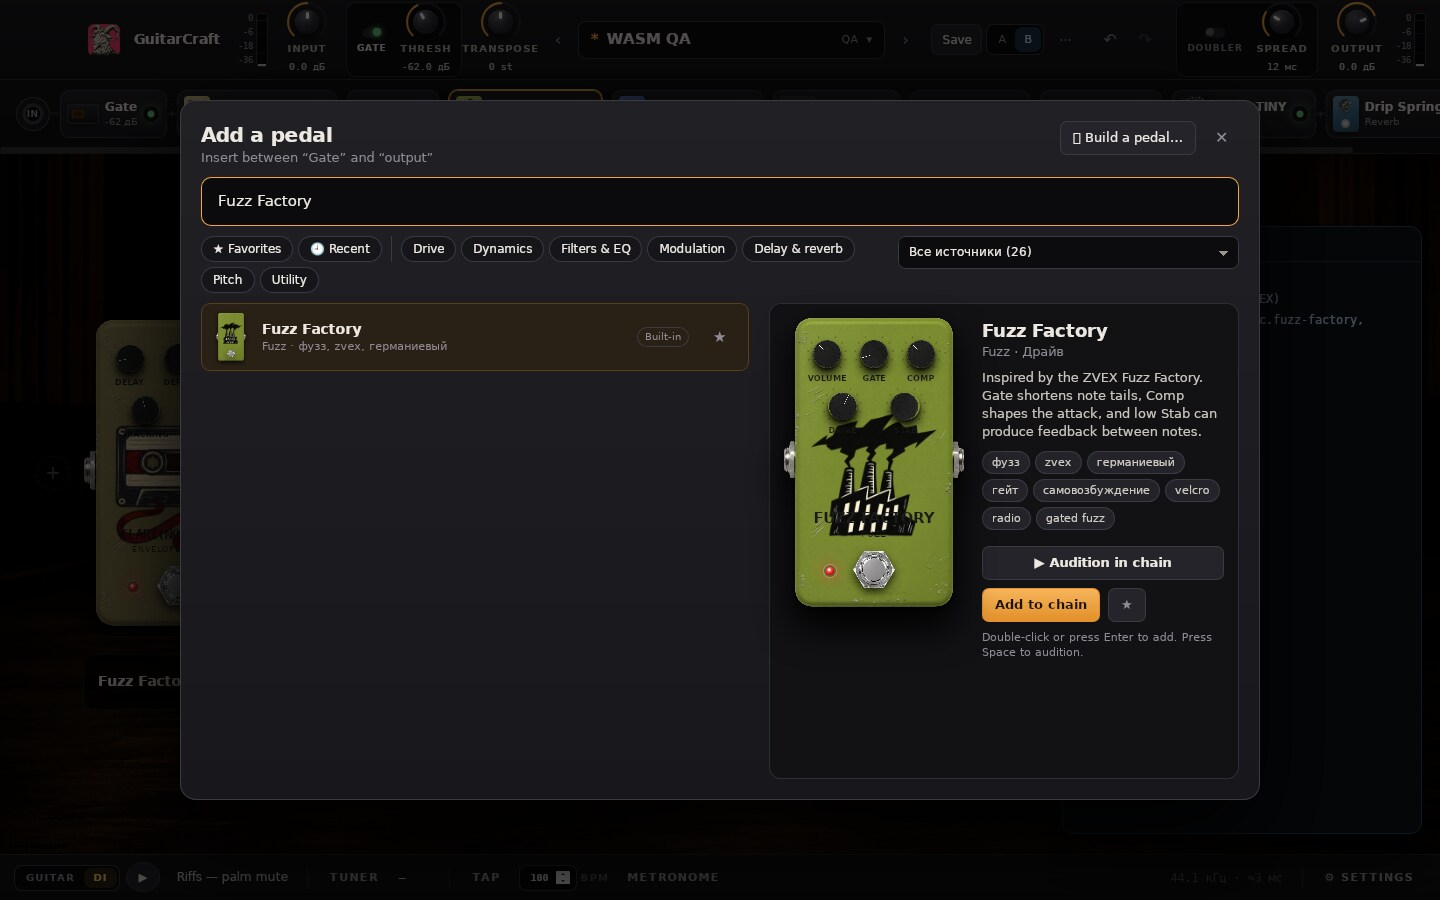
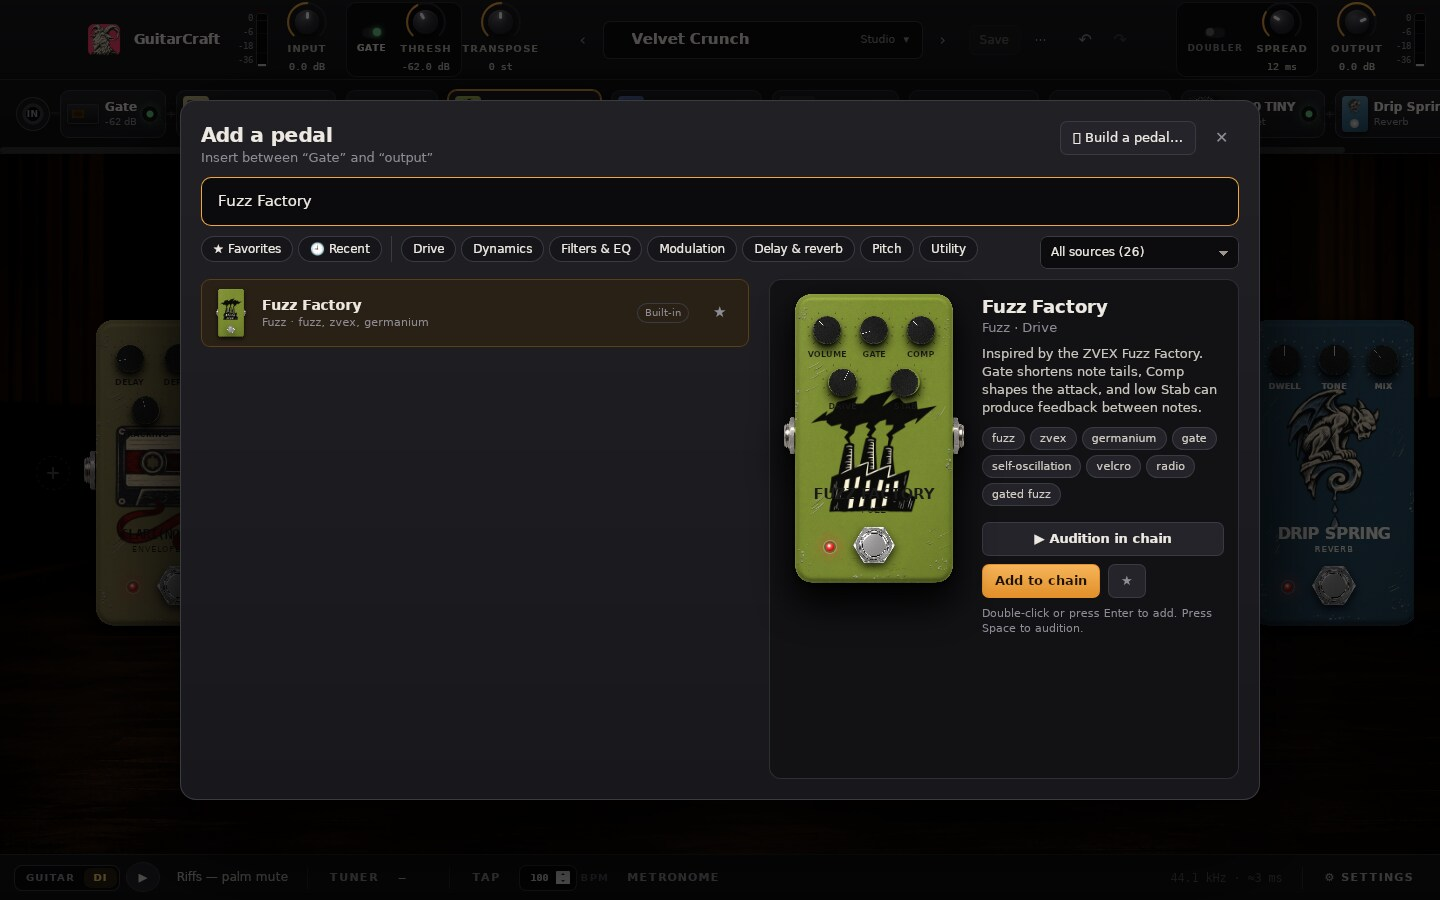
Present GuitarCraft with a product overview and desktop screenshots

diff --git a/README.md b/README.md
@@ -1,20 +1,39 @@
-<img src="src-tauri/icons/128x128.png" width="76" height="76" alt="GuitarCraft icon">
+<p align="center">
+  <img src="src-tauri/icons/icon.png" width="128" height="128" alt="GuitarCraft icon">
+</p>
 
-# GuitarCraft
+<h1 align="center">GuitarCraft</h1>
 
-A desktop guitar amp and pedalboard with a Rust audio engine. Plug in a guitar, build a signal chain, and save the sound as a preset.
+<p align="center">
+  <strong>A desktop guitar amp, cabinet simulator, and pedalboard.</strong><br>
+  Plug in through an audio interface, shape your sound, and save the whole rig as a preset.
+</p>
 
-[**Download GuitarCraft**](https://github.com/DimkaRapirka/GuitarCraft-Desktop/releases/latest) · [Features](#features) · [Get started](#get-started) · [Downloads](#downloads) · [Build from source](#build-from-source)
+<p align="center">
+  <img alt="Rust audio engine" src="https://img.shields.io/badge/Audio_engine-Rust-b7410e?style=flat-square&amp;logo=rust">
+  <img alt="macOS, Windows, and Linux" src="https://img.shields.io/badge/Desktop-macOS_%C2%B7_Windows_%C2%B7_Linux-485f7b?style=flat-square">
+  <img alt="MIDI and local MCP control" src="https://img.shields.io/badge/Control-MIDI_%C2%B7_MCP-6d527e?style=flat-square">
+</p>
 
-<img src="docs/images/amplifier.jpg" width="100%" alt="GuitarCraft's amplifier studio with its signal chain and Crunch channel">
+<p align="center">
+  <a href="https://github.com/DimkaRapirka/GuitarCraft-Desktop/releases/latest"><strong>Download GuitarCraft</strong></a>
+  · <a href="#features">Features</a>
+  · <a href="#get-started">Get started</a>
+  · <a href="#downloads">Downloads</a>
+  · <a href="#build-from-source">Build from source</a>
+</p>
 
-*The amplifier studio with the Crunch channel selected.*
+<p align="center">
+  <img src="docs/images/amplifier.jpg" width="100%" alt="GuitarCraft amplifier studio with its signal chain, Crunch channel, and Ember combo skin"><br>
+  <sub>The Crunch channel with the Ember combo skin and the full signal chain above it.</sub>
+</p>
 
 <table>
   <tr>
-    <td width="33%"><strong>Play through an amp</strong><br>Four amp channels, speaker cabinets, and movable microphones.</td>
-    <td width="33%"><strong>Build a pedalboard</strong><br>25 built-in pedals, drag-to-reorder signal routing, and A/B auditioning.</td>
-    <td width="33%"><strong>Save your rig</strong><br>Recall presets, map a MIDI controller, or control your chain over MCP.</td>
+    <td width="25%" valign="top"><h3>Amp and cabinet</h3>Four amp channels, movable virtual microphones, and cabinet impulse responses.</td>
+    <td width="25%" valign="top"><h3>Pedalboard</h3>25 built-in pedals. Place effects in front of the amp or after the cabinet.</td>
+    <td width="25%" valign="top"><h3>Practice tools</h3>Tuner, metronome, tap tempo, and built-in guitar recordings for trying a rig.</td>
+    <td width="25%" valign="top"><h3>Rig control</h3>Save presets, map a MIDI controller, or edit the chain with a local MCP client.</td>
   </tr>
 </table>
 
@@ -22,46 +41,61 @@ A desktop guitar amp and pedalboard with a Rust audio engine. Plug in a guitar, 
 
 <table>
   <tr>
-    <td width="59%"><img src="docs/images/pedalboard.jpg" alt="Pedalboard with Clari(not) Clean, Fuzz Factory, and Crown Drive"></td>
-    <td width="41%"><h3>Build your signal chain</h3><p>Put a fuzz ahead of the amp or move an echo after the cabinet. Reorder blocks, bypass individual effects, and save the routing with your preset.</p></td>
-  </tr>
-  <tr>
-    <td width="59%"><img src="docs/images/catalog.jpg" alt="Fuzz Factory selected in the searchable pedal catalog, with the audition and add buttons visible"></td>
-    <td width="41%"><h3>Audition a pedal in context</h3><p>Search by name or effect, then hear the pedal in your rig before adding it. Fuzz Factory gives you Volume, Gate, Comp, Drive, and Stab.</p></td>
+    <td width="50%" valign="top">
+      <img src="docs/images/pedalboard.jpg" alt="Pedalboard with Clari(not) Clean, Fuzz Factory, Crown Drive, and Drip Spring" width="100%"><br>
+      <sub>Envelope vibrato, fuzz, overdrive, and spring reverb in the Velvet Crunch rig.</sub>
+      <h3>Build a signal chain</h3>
+      Drag effects into order, bypass individual blocks, and save their routing and settings together. Add rack EQ, delay, and reverb wherever they fit your rig.
+    </td>
+    <td width="50%" valign="top">
+      <img src="docs/images/catalog.jpg" alt="Fuzz Factory in the searchable pedal catalog, with its five knobs and audition control" width="100%"><br>
+      <sub>Fuzz Factory selected in the built-in pedal catalog.</sub>
+      <h3>Audition a pedal in context</h3>
+      Search by name, effect, or sound. Use Audition in Chain to hear an effect in your rig before adding it. Build custom effects from DSP blocks and save them in the same catalog.
+    </td>
   </tr>
 </table>
 
 ### Voice the amp and cabinet
 
-Switch between Clean, Crunch, Rhythm, and Lead. Choose a speaker cabinet, blend two virtual microphones, or load an impulse response. Shape the result with rack EQ, delay, and reverb.
+Switch between Clean, Crunch, Rhythm, and Lead. Choose a speaker cabinet, position two virtual microphones, or load your own impulse response.
+
+<p align="center">
+  <img src="docs/images/cabinet.jpg" alt="Cabinet editor with a 4×12 Greenback cabinet, a movable Dynamic 57 microphone, and the controls for adding a second microphone or loading an impulse response" width="100%"><br>
+  <sub>A 4×12 Greenback cabinet with a Dynamic 57 microphone positioned 30% from the center of the speaker.</sub>
+</p>
 
 ### Rehearse and compare
 
-Use the tuner, tap tempo, and metronome while playing. Select a built-in DI sample and press Play to audition a rig without an interface. Presets keep your amp settings, signal chain, and effect parameters together.
+Tune the guitar, tap in a tempo, or lock the delay to the preset BPM. Select a built-in DI recording and press Play to try a rig without an interface. Use A/B to compare your edits with the saved sound.
 
-### Control GuitarCraft from an agent
+### Control GuitarCraft over MCP
 
-Enable the local MCP server in Settings to let a compatible client find pedals, change settings, and save presets. Changes appear in the app and participate in its undo history.
+Enable MCP in **Settings → Agents (MCP)** to search the catalog, change effects, and save presets from a local MCP client. The setting also displays the configuration for the bundled MCP server. Edits made through MCP appear in the app’s undo history.
 
 ## Get started
 
-1. Connect your guitar to an audio interface. In **Settings → Audio**, select the input device, channel, and output.
-2. Select a factory preset, then click **+** in the chain to add a pedal.
-3. Use **Save As** to keep your sound. Change the interface language under **Settings → Language**.
+1. Connect your guitar to an audio interface. Open **Settings → Audio** and select the input device, the channel you plugged into, and the output device.
+2. Select a factory preset. Use **+** on the signal chain to browse or add an effect.
+3. Choose **Save as…** to save a copy of the rig.
+
+### Interface languages
+
+GuitarCraft starts in English. Choose **English** or **Русский** under **Settings → Language**, then reopen the app to apply your selection. The interface uses translation catalogs in [`crates/gc-ui/locales`](crates/gc-ui/locales) for future languages.
 
 ## Downloads
 
 | Platform | Package | Installation |
 | --- | --- | --- |
 | macOS · Apple Silicon | DMG | Open the image and drag GuitarCraft to Applications. The bundle uses ad hoc signing. |
-| Windows · x64 | EXE | Run the installer. It uses Microsoft WebView2. |
-| Linux · x86-64 | DEB | On Ubuntu 22.04 or a compatible Debian-based system, run `sudo apt install ./GuitarCraft_0.10.0_amd64.deb`. |
+| Windows · x64 | EXE | Run the installer. GuitarCraft uses Microsoft WebView2. |
+| Linux · x86-64 | DEB | Open the package with your installer or run `sudo apt install ./GuitarCraft_*_amd64.deb`. Tested on Ubuntu 22.04. |
 
-Find the installers and SHA-256 checksums in the [latest release](https://github.com/DimkaRapirka/GuitarCraft-Desktop/releases/latest).
+Get the installers and SHA-256 checksums from the [latest release](https://github.com/DimkaRapirka/GuitarCraft-Desktop/releases/latest).
 
 ## Build from source
 
-Use stable Rust and Node.js 22. On macOS install Xcode Command Line Tools. On Windows use the MSVC Rust toolchain, Visual Studio C++ build tools, and WebView2. Ubuntu build dependencies are `libwebkit2gtk-4.1-dev`, `libayatana-appindicator3-dev`, `librsvg2-dev`, `libxdo-dev`, and `libasound2-dev`.
+Use stable Rust and Node.js 22. On macOS, install Xcode Command Line Tools. On Windows, install the MSVC Rust toolchain, Visual Studio C++ build tools, and WebView2. On Ubuntu, install `libwebkit2gtk-4.1-dev`, `libayatana-appindicator3-dev`, `librsvg2-dev`, `libxdo-dev`, and `libasound2-dev`.
 
 ```sh
 rustup target add wasm32-unknown-unknown
@@ -69,8 +103,4 @@ npm ci
 npm run bundle
 ```
 
-The desktop shell uses Tauri and WebAssembly. The Rust audio engine processes the signal locally through Core Audio, WASAPI, or ALSA. Installers include the GuitarCraft MCP sidecar.
-
-## Interface languages
-
-GuitarCraft opens in English by default. Choose **English** or **Русский** under **Settings → Language**. GuitarCraft applies the selection the next time it starts. Translation catalogs live in [`crates/gc-ui/locales`](crates/gc-ui/locales).
+GuitarCraft uses Tauri for its desktop shell and Rust compiled to WebAssembly for its interface. The Rust audio engine processes the signal locally through Core Audio, WASAPI, or ALSA. Each installer includes the GuitarCraft MCP sidecar.
